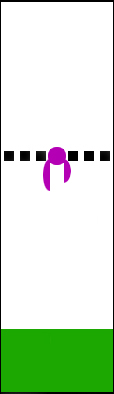
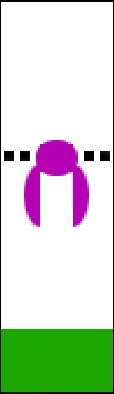
Creating a "Match"
Creating a component called "Match" that renders the two players with the rope.

diff --git a/client/src/Games/TugOfWar/TugOfWar.jsx b/client/src/Games/TugOfWar/TugOfWar.jsx
@@ -1,26 +1,42 @@
 import { useState } from "react";
+import Match from "./Match";
 import Dice1 from "./images/001.jpg";
 import Dice2 from "./images/002.jpg";
 import Dice3 from "./images/003.jpg";
 import Dice4 from "./images/004.jpg";
 import Dice5 from "./images/005.jpg";
 import Dice6 from "./images/006.jpg";
+import Blue1 from "./images/Blue-1.jpg";
+import Blue2 from "./images/Blue-2.jpg";
+import Blue3 from "./images/Blue-3.jpg";
+import Blue4 from "./images/Blue-4.jpg";
+import Blue5 from "./images/Blue-5.jpg";
+import Red1 from "./images/Red-1.jpg";
+import Red2 from "./images/Red-2.jpg";
+import Red3 from "./images/Red-3.jpg";
+import Red4 from "./images/Red-4.jpg";
+import Red5 from "./images/Red-5.jpg";
+import V1 from "./images/V-1.jpg";
+import V2 from "./images/V-2.jpg";
+import V3 from "./images/V-3.jpg";
 
 export default function TugOfWar() {
   const [isGameStarted, setIsGameStarted] = useState(false);
   const [userColor, setUserColor] = useState("");
-  const [pejmanColor, setPejmanColor] = useState("");
+//   const [pejmanColor, setPejmanColor] = useState("");
   const [dice, setDice] = useState(-1);
+  const [match1, setMatch1] = useState([Blue1, V1, V1, V1, V1, V1, V1, V2, V1, V1, V1, V1, V1, V1, Red1]);
+
   const handleStart = () => {
     setIsGameStarted(true);
   };
   const handleUserColor = (e) => {
     if (e.target.value === "Red") {
-      setUserColor("red");
-      setPejmanColor("blue");
+      setUserColor("Red");
+    //   setPejmanColor("blue");
     } else if (e.target.value === "Blue") {
-      setUserColor("blue");
-      setPejmanColor("red");
+      setUserColor("Blue");
+    //   setPejmanColor("red");
     }
   };
   const rollDice = () => {
@@ -52,7 +68,8 @@ export default function TugOfWar() {
       )}
       {isGameStarted && (
         <div>
-          <div>{userColor}</div>
+          {userColor && userColor === "Blue" && <div>You are <span style={{color: "blue"}}>Blue</span></div>}
+          {userColor && userColor === "Red" && <div>You are <span style={{color: "red"}}>Red</span></div>}
           <button onClick={rollDice}>Roll the Dice</button>
           <div style={{position: "relative", top: "5px"}}>
             {dice === 0 && <div>Rolling the Dice ...</div>}
@@ -64,6 +81,9 @@ export default function TugOfWar() {
             {dice === 6 && <img src={Dice6} width="50px" />}
           </div>
         </div>
+      )}
+      {isGameStarted && (
+        <Match matchImages={match1} userColor={userColor} />
       )}
     </div>
   );

diff --git a/client/src/Games/TugOfWar/Match.jsx b/client/src/Games/TugOfWar/Match.jsx
@@ -1,0 +1,18 @@
+export default function Match({matchImages, userColor}) {
+    return(
+        <div>
+            {userColor === "Blue" && <input type="checkbox" />}
+            {matchImages.map((m, idx) =>
+                <img
+                    src={matchImages[idx]}
+                    height="80px"
+                    style={{
+                        position: "relative",
+                        top: "10px"
+                    }}
+                />
+            )}
+            {userColor === "Red" && <input type="checkbox" />}
+        </div>
+    )
+}
